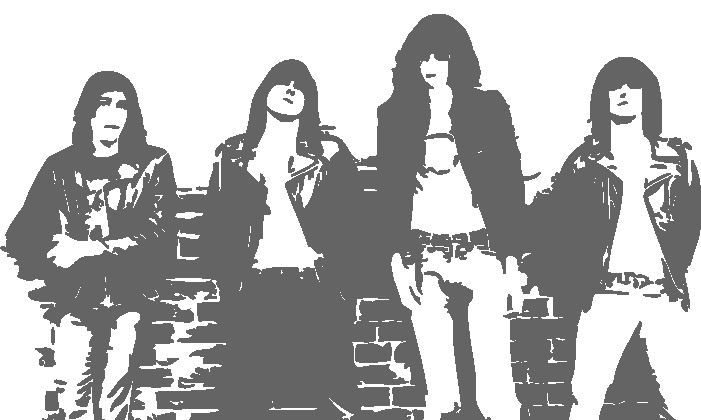
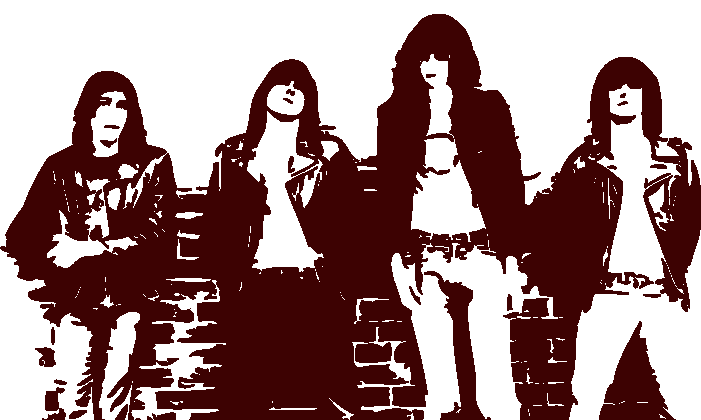
update

diff --git a/style.css b/style.css
@@ -1,12 +1,12 @@
 body{
-    background-color:#a9a9a9;
+    background-image: url(img/grey-brick-texture.jpg);
     font-family: Arial, Helvetica, sans-serif;
     margin: 0 auto;
     font-size: 18px;
 }
 
 #title{
-    background-color: #646464;
+    background-color: #3d0202;
     width: 1000px;
     max-width: 80%;
     margin: 0 auto;
@@ -14,20 +14,22 @@ body{
     text-align: center;
     font-size: 105px;
     font-weight: bolder;
+    color: #a6a6a6;
 }
 
 #title img{
     max-width: 75px;
     width: 8.5%;
+    color: #a6a6a6;
 }
 
 #subtitle{
-    background-color: #3d3d3d;
+    background-color: #1f0606;
     width: 1000px;
     max-width: 80%;
     margin: 0 auto;
     padding: 5px 20px 5px 20px;
-    color: #a9a9a9;
+    color: #D2D2D2;
     text-align: center;
     border-bottom-left-radius: 25px;
     border-bottom-right-radius: 25px;
@@ -52,23 +54,23 @@ body{
     margin-left: auto;
     margin-right: auto;
     display: block;     
-    border-bottom: 2px solid  #a9a9a9;
-    border-right: 2px solid  #a9a9a9;
-    border-left: 2px solid  #a9a9a9;
+    border-bottom: 2px solid  #D2D2D2;
+    border-right: 2px solid  #D2D2D2;
+    border-left: 2px solid  #D2D2D2;
     border-bottom-left-radius: 25px;
     border-bottom-right-radius: 25px;
 }
 #img-caption{
     max-width: 100%;
     width: 80%;
-    background-color: #a9a9a9;
+    background-color: #D2D2D2;
     padding: 10px;
     border-radius: 25px;
     margin: 10px auto;
 }
 
 #tribute-info{
-    background-color: #646464;
+    background-color: #3d0202;
     width: 1000px;
     max-width: 80%;
     margin: 40px auto;
@@ -79,12 +81,13 @@ body{
 }
 #tribute-info p{
     margin: 0;
+    color: #a6a6a6;
 }
 #tribute-info h2{
     padding: 20px 0 2px 0;
     font-size: 36px;
     font-weight: bolder;
-    color: #41030f;
+    color: #a6a6a6;
     margin: 0;
 }
 #art1{
@@ -108,7 +111,7 @@ body{
 }
 
 #art_cap{
-    background-color: #a9a9a9;
+    background-color: #D2D2D2;
     width: 100%;
     padding: 10px 0;
     margin: 0 auto;
@@ -119,7 +122,6 @@ body{
     text-align: center;
 }
 footer{
-    position: relative;
     width: 1000px;
     max-width: 80%;
     margin: 0 auto;
@@ -128,20 +130,28 @@ footer{
 }
 footer img{
     max-width: 800px;
-    background-color:#a9a9a9;
+  
     margin: 0 auto;
     width: 80%;
 }
 footer p{
-    position: absolute;
-
-    bottom: 10%;
-    right: 31%;
+    background-color: #1f0606;
     margin: 0 auto;
     text-align: center;
+    color: #a6a6a6;
+    padding: 20px;
+    border-top-left-radius: 25px;
+    border-top-right-radius: 25px;
+}
+a:hover{
+    color: darkkhaki;
+}
+a{
+    text-decoration: none;
+    color: #D2D2D2;
 }
 
-@media screen and (max-width: 1150px){
+@media screen and (max-width: 1150px){   /*  /////// Screen Size //////// */
     #title{
         font-size: 80px;
     }

diff --git a/index.html b/index.html
@@ -1,6 +1,7 @@
 <!DOCTYPE html>
 <html>
     <head>
+        <meta name="description" content="A Ramones Tribute page for freecodecamp.org html/css project">
         <meta name="viewport" content="width=device-width, initial-scale=1.0">
         <link rel="stylesheet" href="style.css">
         <title>The Ramones</title>
